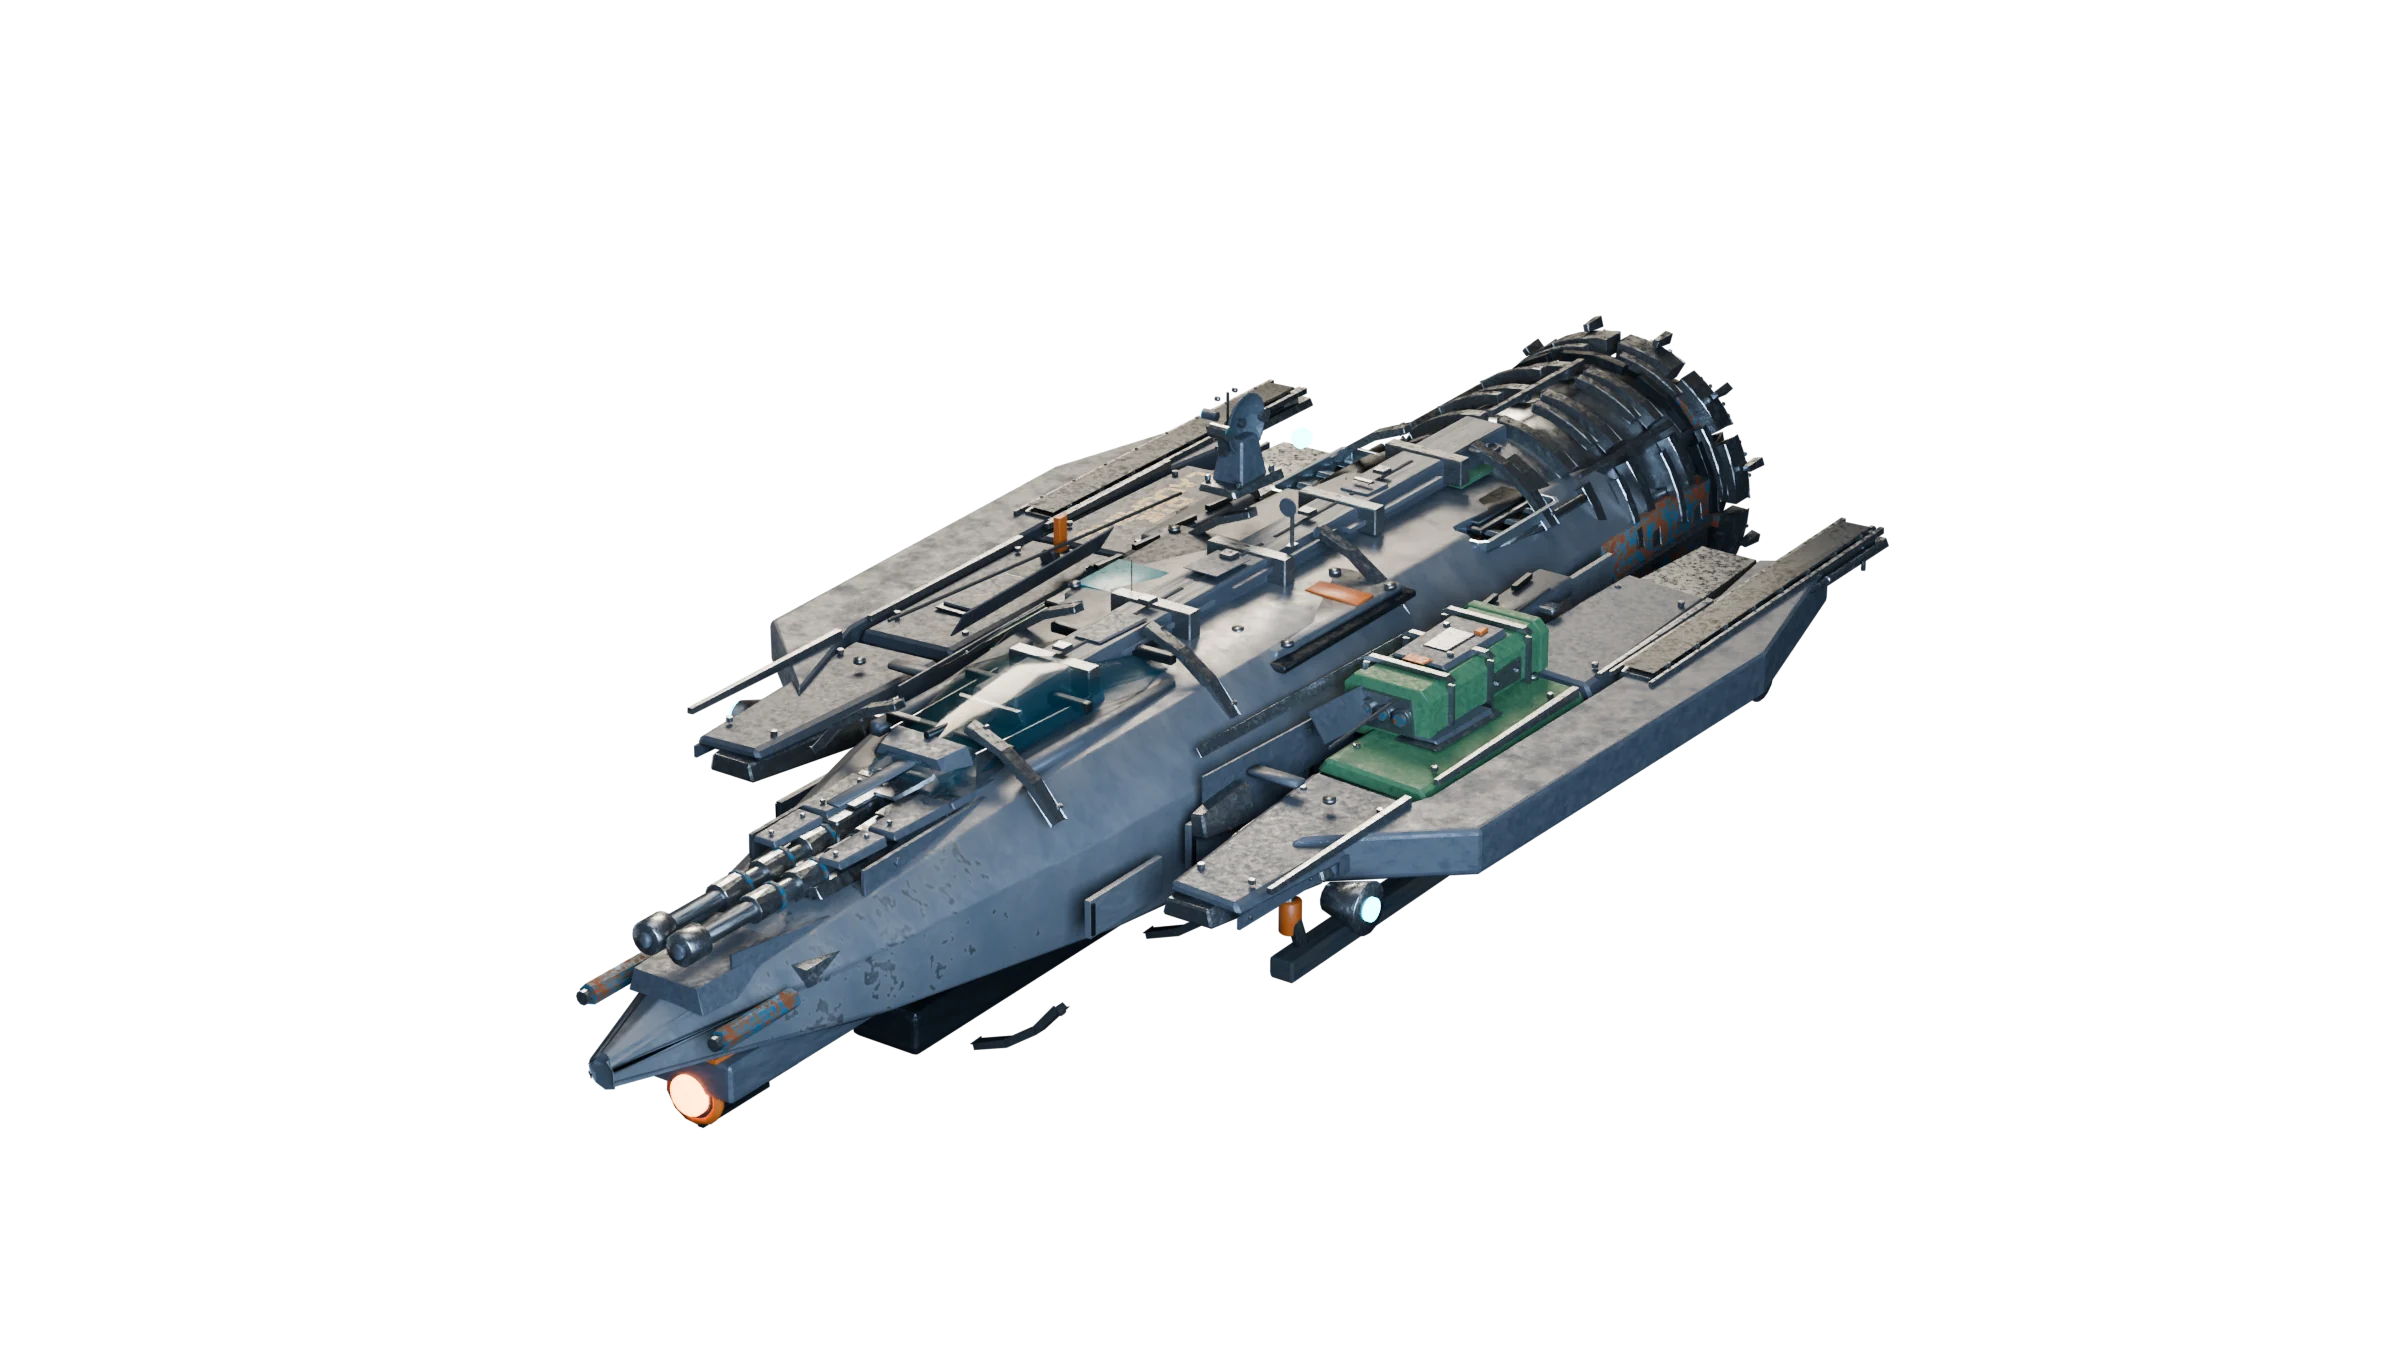
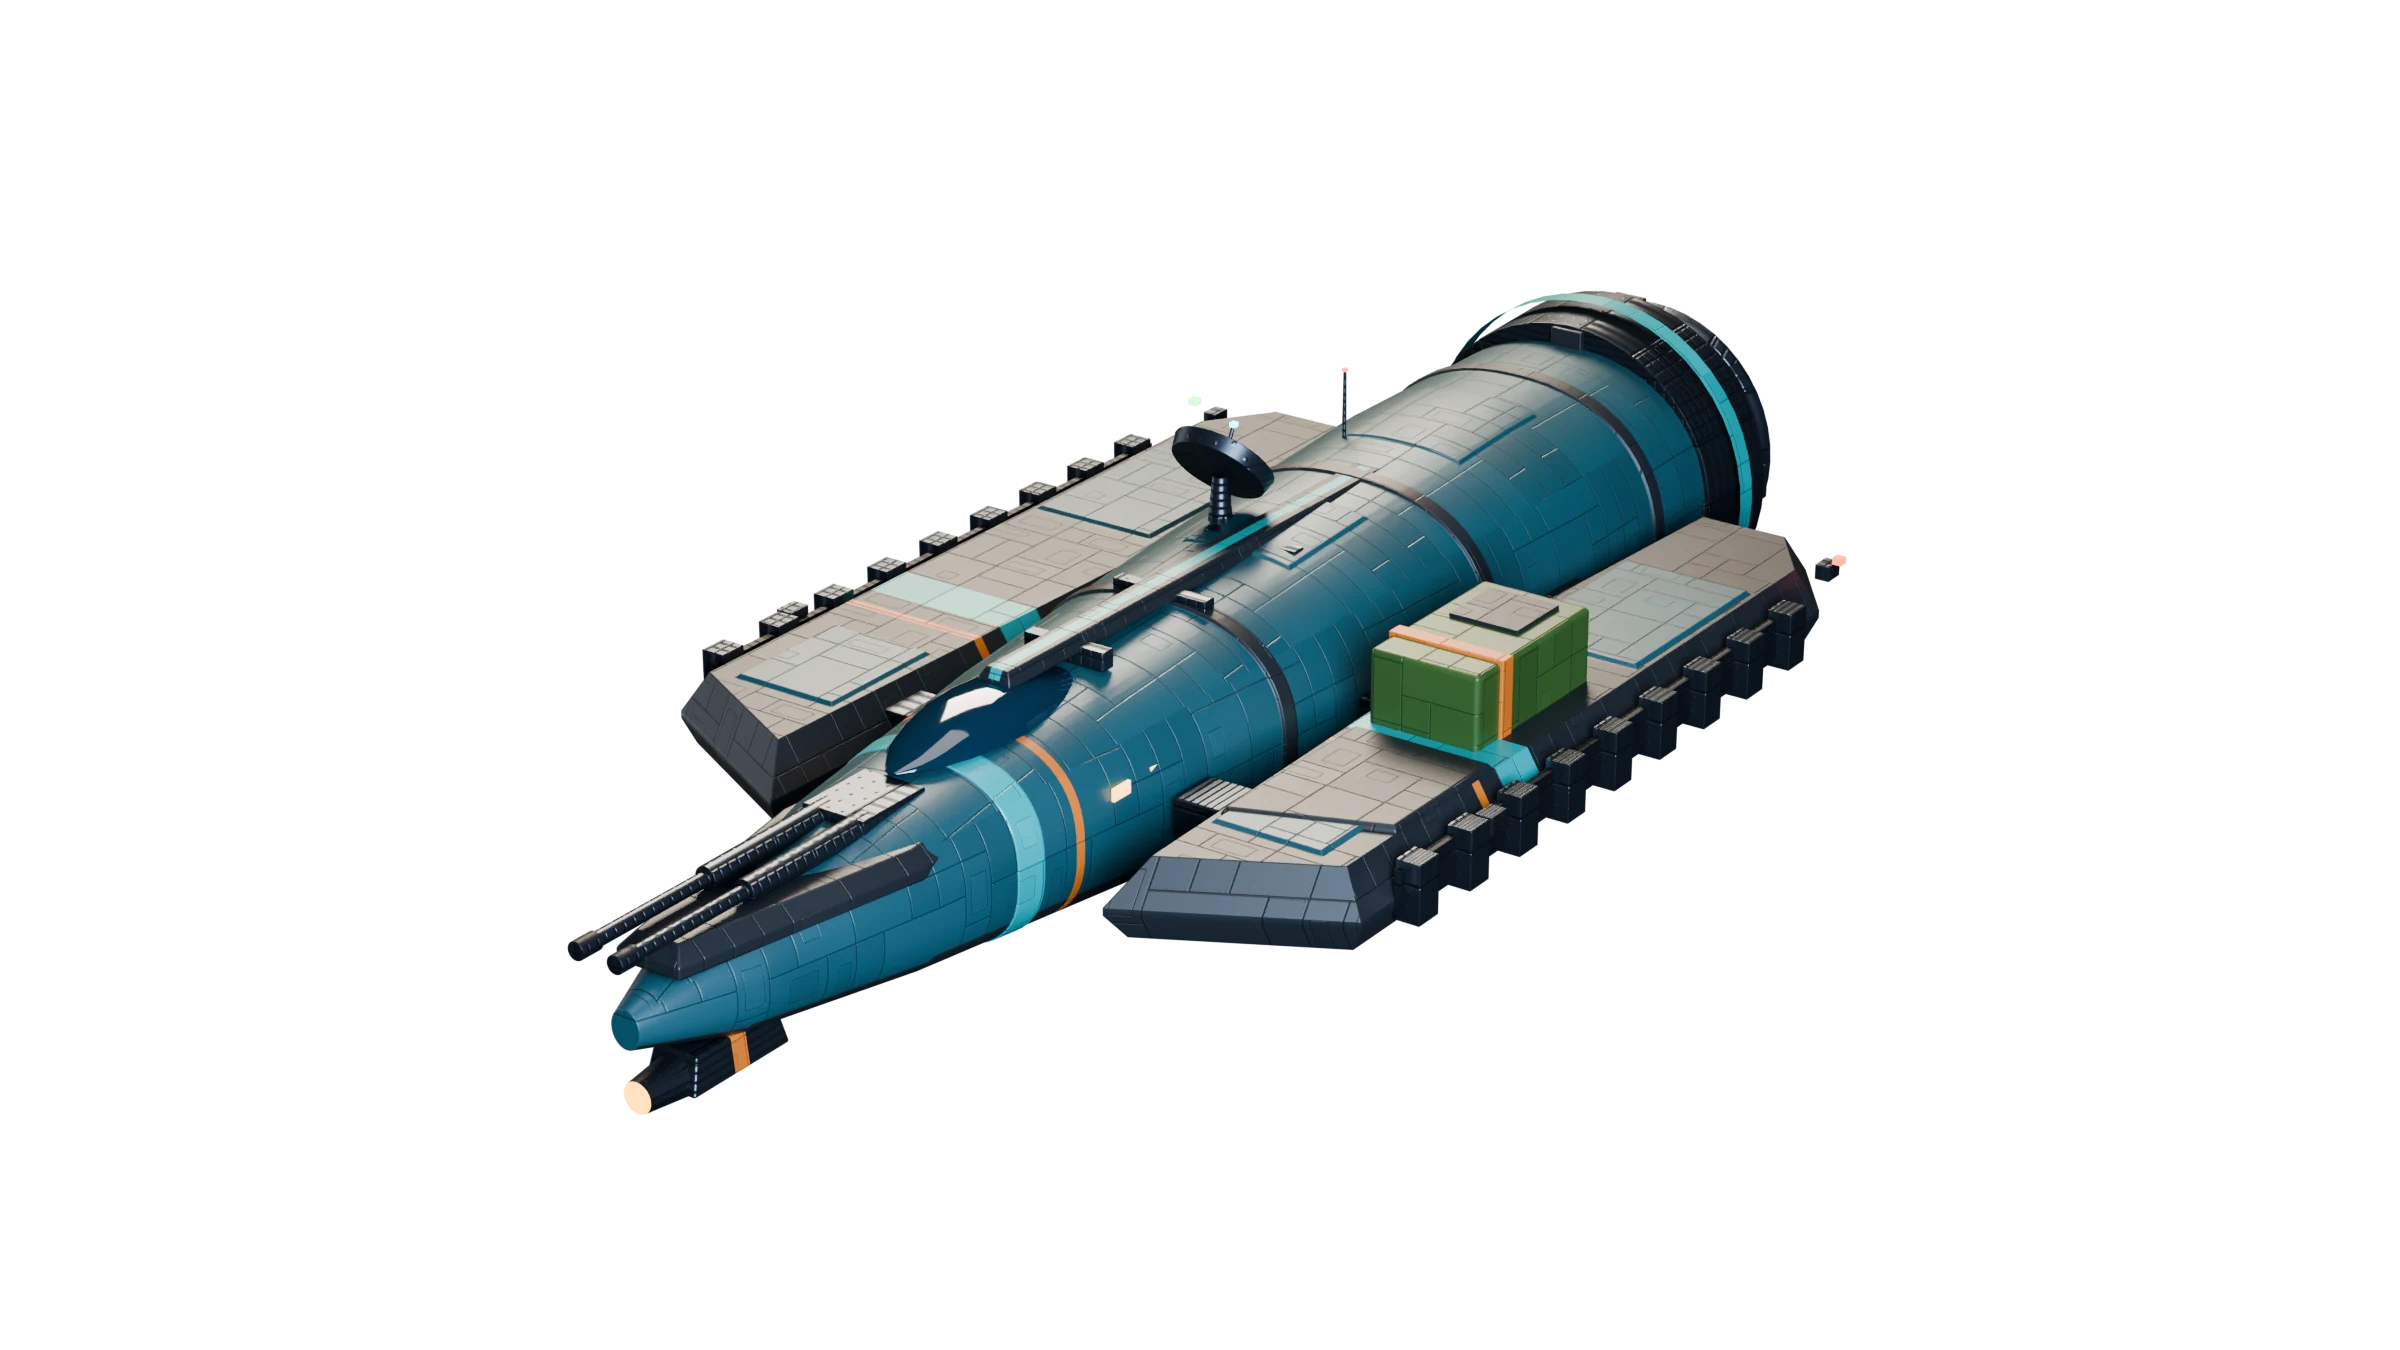
Interface hull posters: Kestrel re-rendered from the forged hull + poster driver
tools/art/render_hull_posters.mjs renders hero/side/top (Cycles), the instrument
holo glyph and the refit-jig drawing for each player hull, writes the manifest
(framing, projected socket marks, source hash) and src/ui/hullPosters.js.
The remaining hulls follow as their renders finish.

Claude-Session: https://claude.ai/code/session_01MppjcwDKBrWdVDmKTULvZW

Changed region(s): [[0.2188, 0.2178, 0.7812, 0.84]]

diff --git a/src/ui/hullPosters.js b/src/ui/hullPosters.js
@@ -20,7 +20,6 @@ export const HULL_POSTERS = Object.freeze({
   ship_kestrel: Object.freeze({ hero: 'ship_kestrel.hero.webp', side: 'ship_kestrel.side.webp', top: 'ship_kestrel.top.webp', holo: 'ship_kestrel.holo.webp', jig: 'ship_kestrel.jig.webp' }),
   ship_pelican: Object.freeze({ hero: 'ship_pelican.hero.webp', side: 'ship_pelican.side.webp', top: 'ship_pelican.top.webp', holo: 'ship_pelican.holo.webp', jig: 'ship_pelican.jig.webp' }),
   ship_wasp: Object.freeze({ hero: 'ship_wasp.hero.webp', side: 'ship_wasp.side.webp', top: 'ship_wasp.top.webp', holo: 'ship_wasp.holo.webp', jig: 'ship_wasp.jig.webp' }),
-  // the Crucible's own hull (three of its four starter builds fly it)
   ship_hornet: Object.freeze({ hero: 'ship_hornet.hero.webp', side: 'ship_hornet.side.webp', top: 'ship_hornet.top.webp', holo: 'ship_hornet.holo.webp', jig: 'ship_hornet.jig.webp' }),
 });
 
